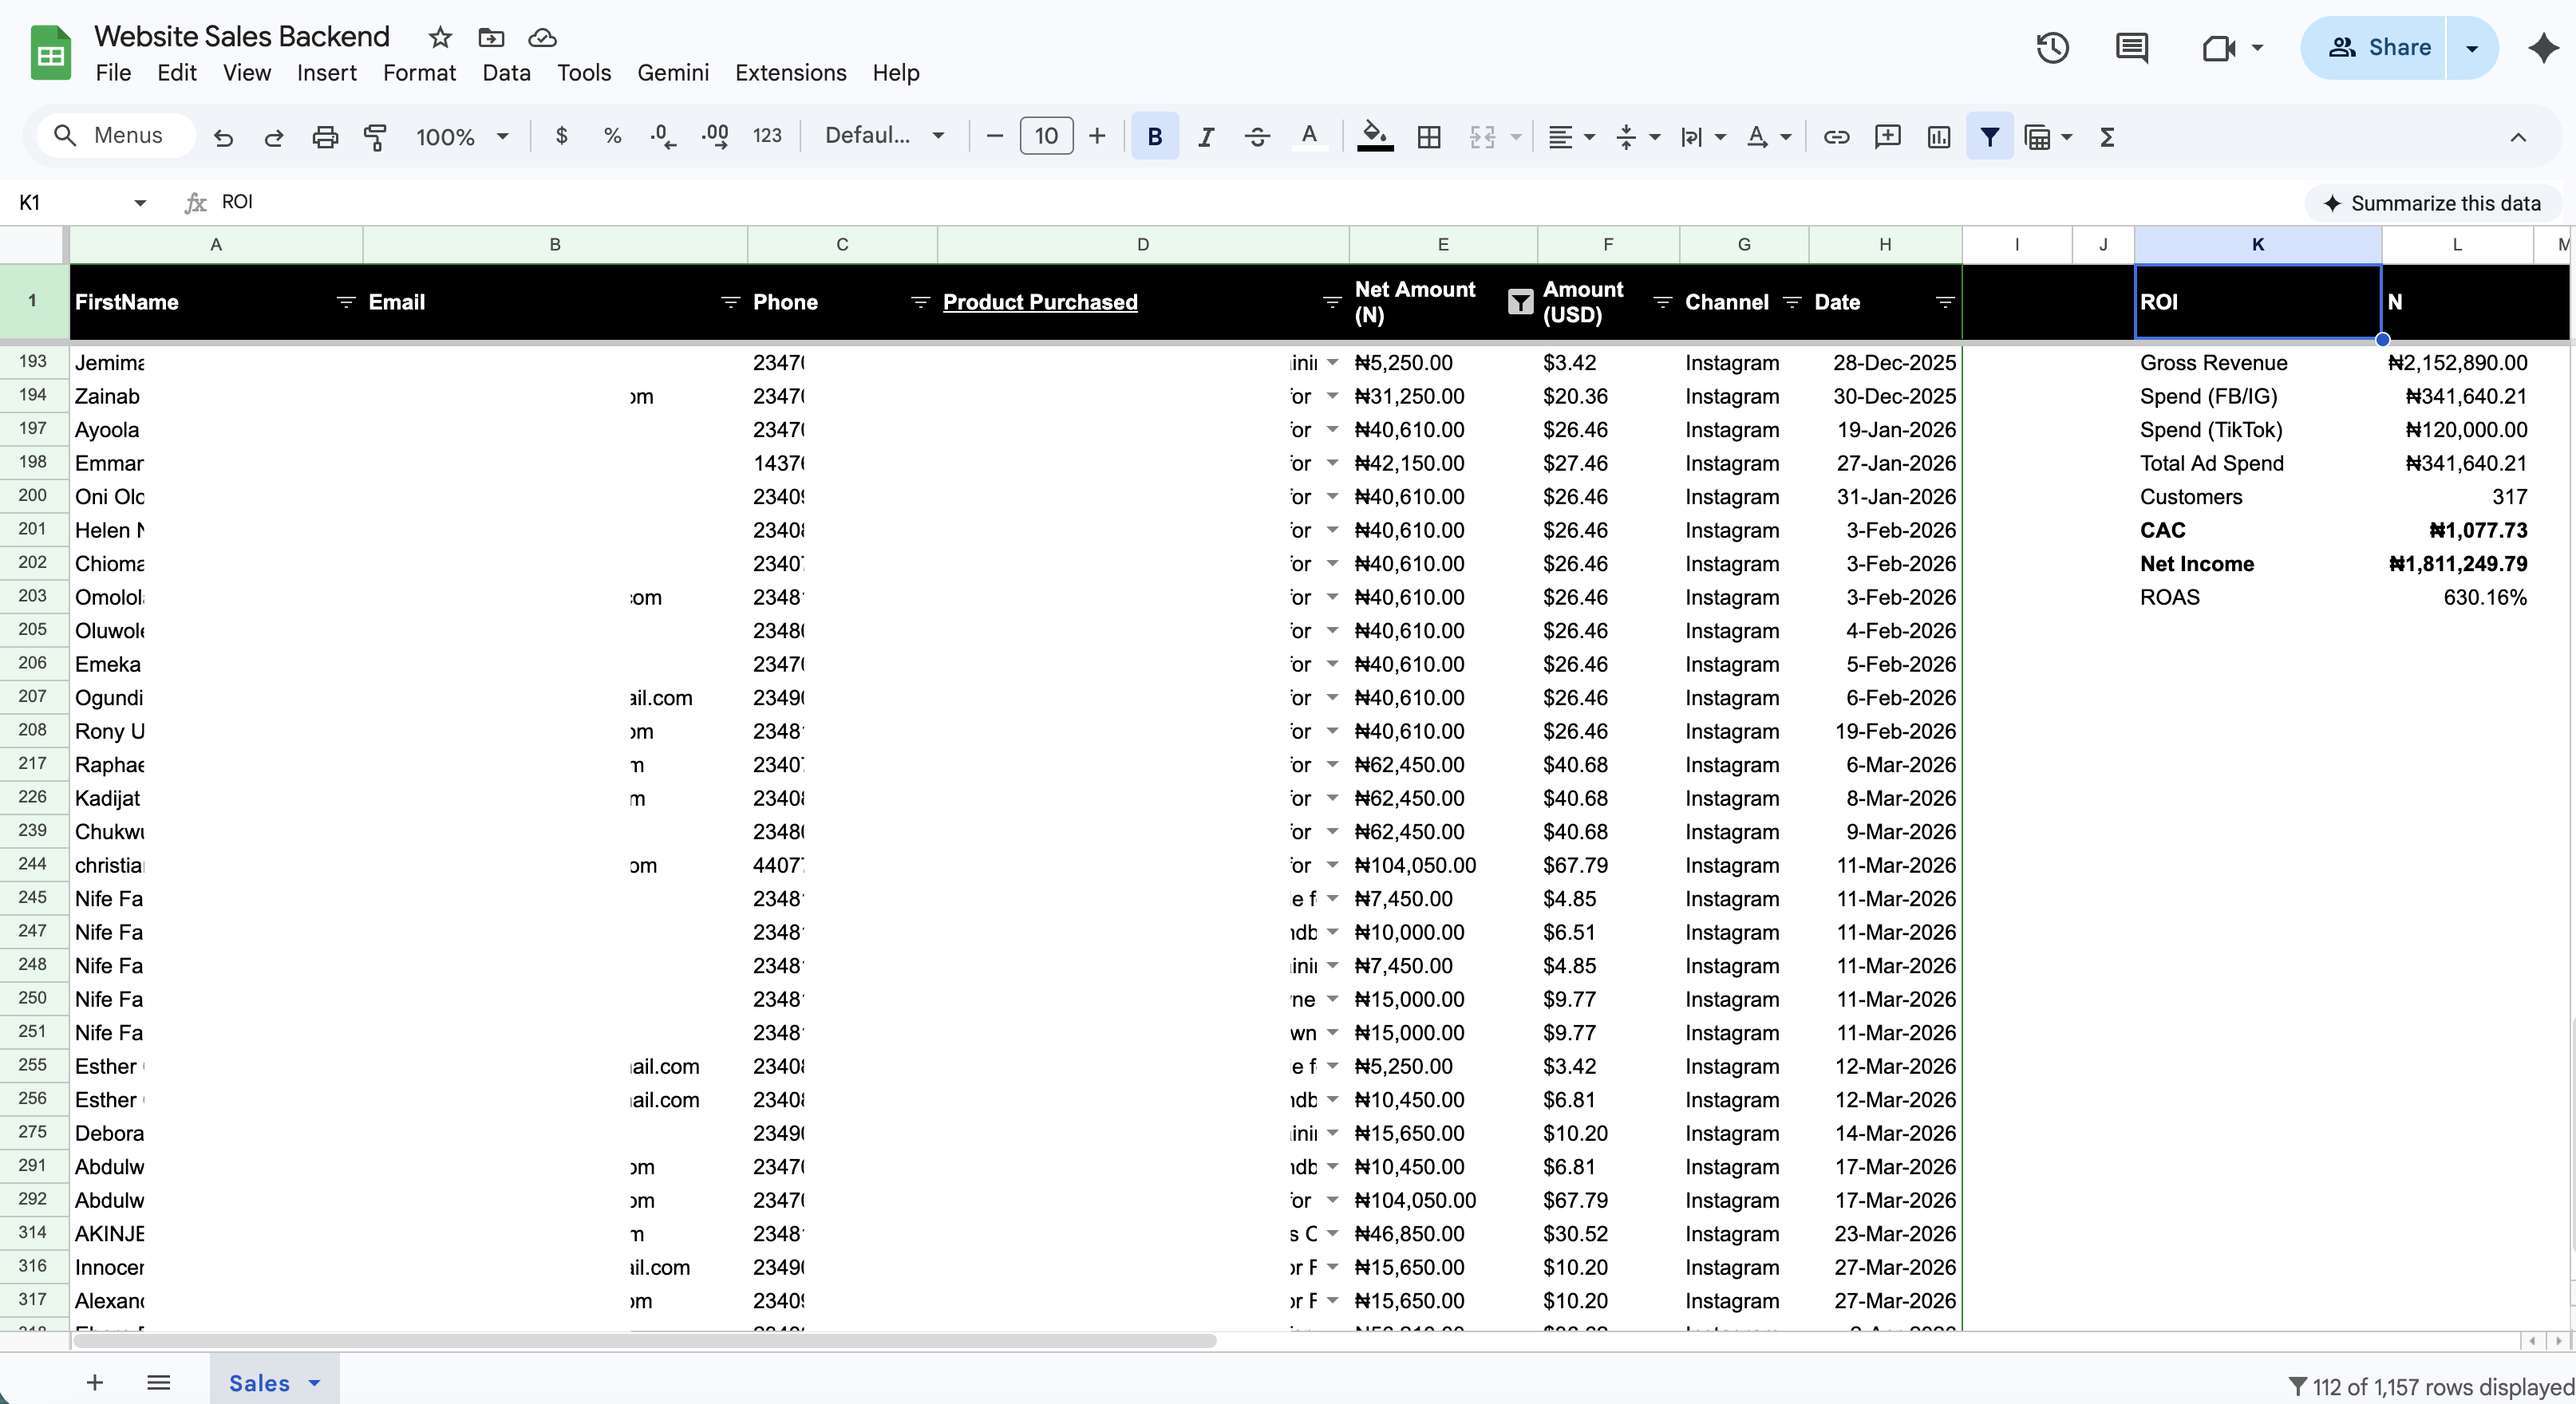
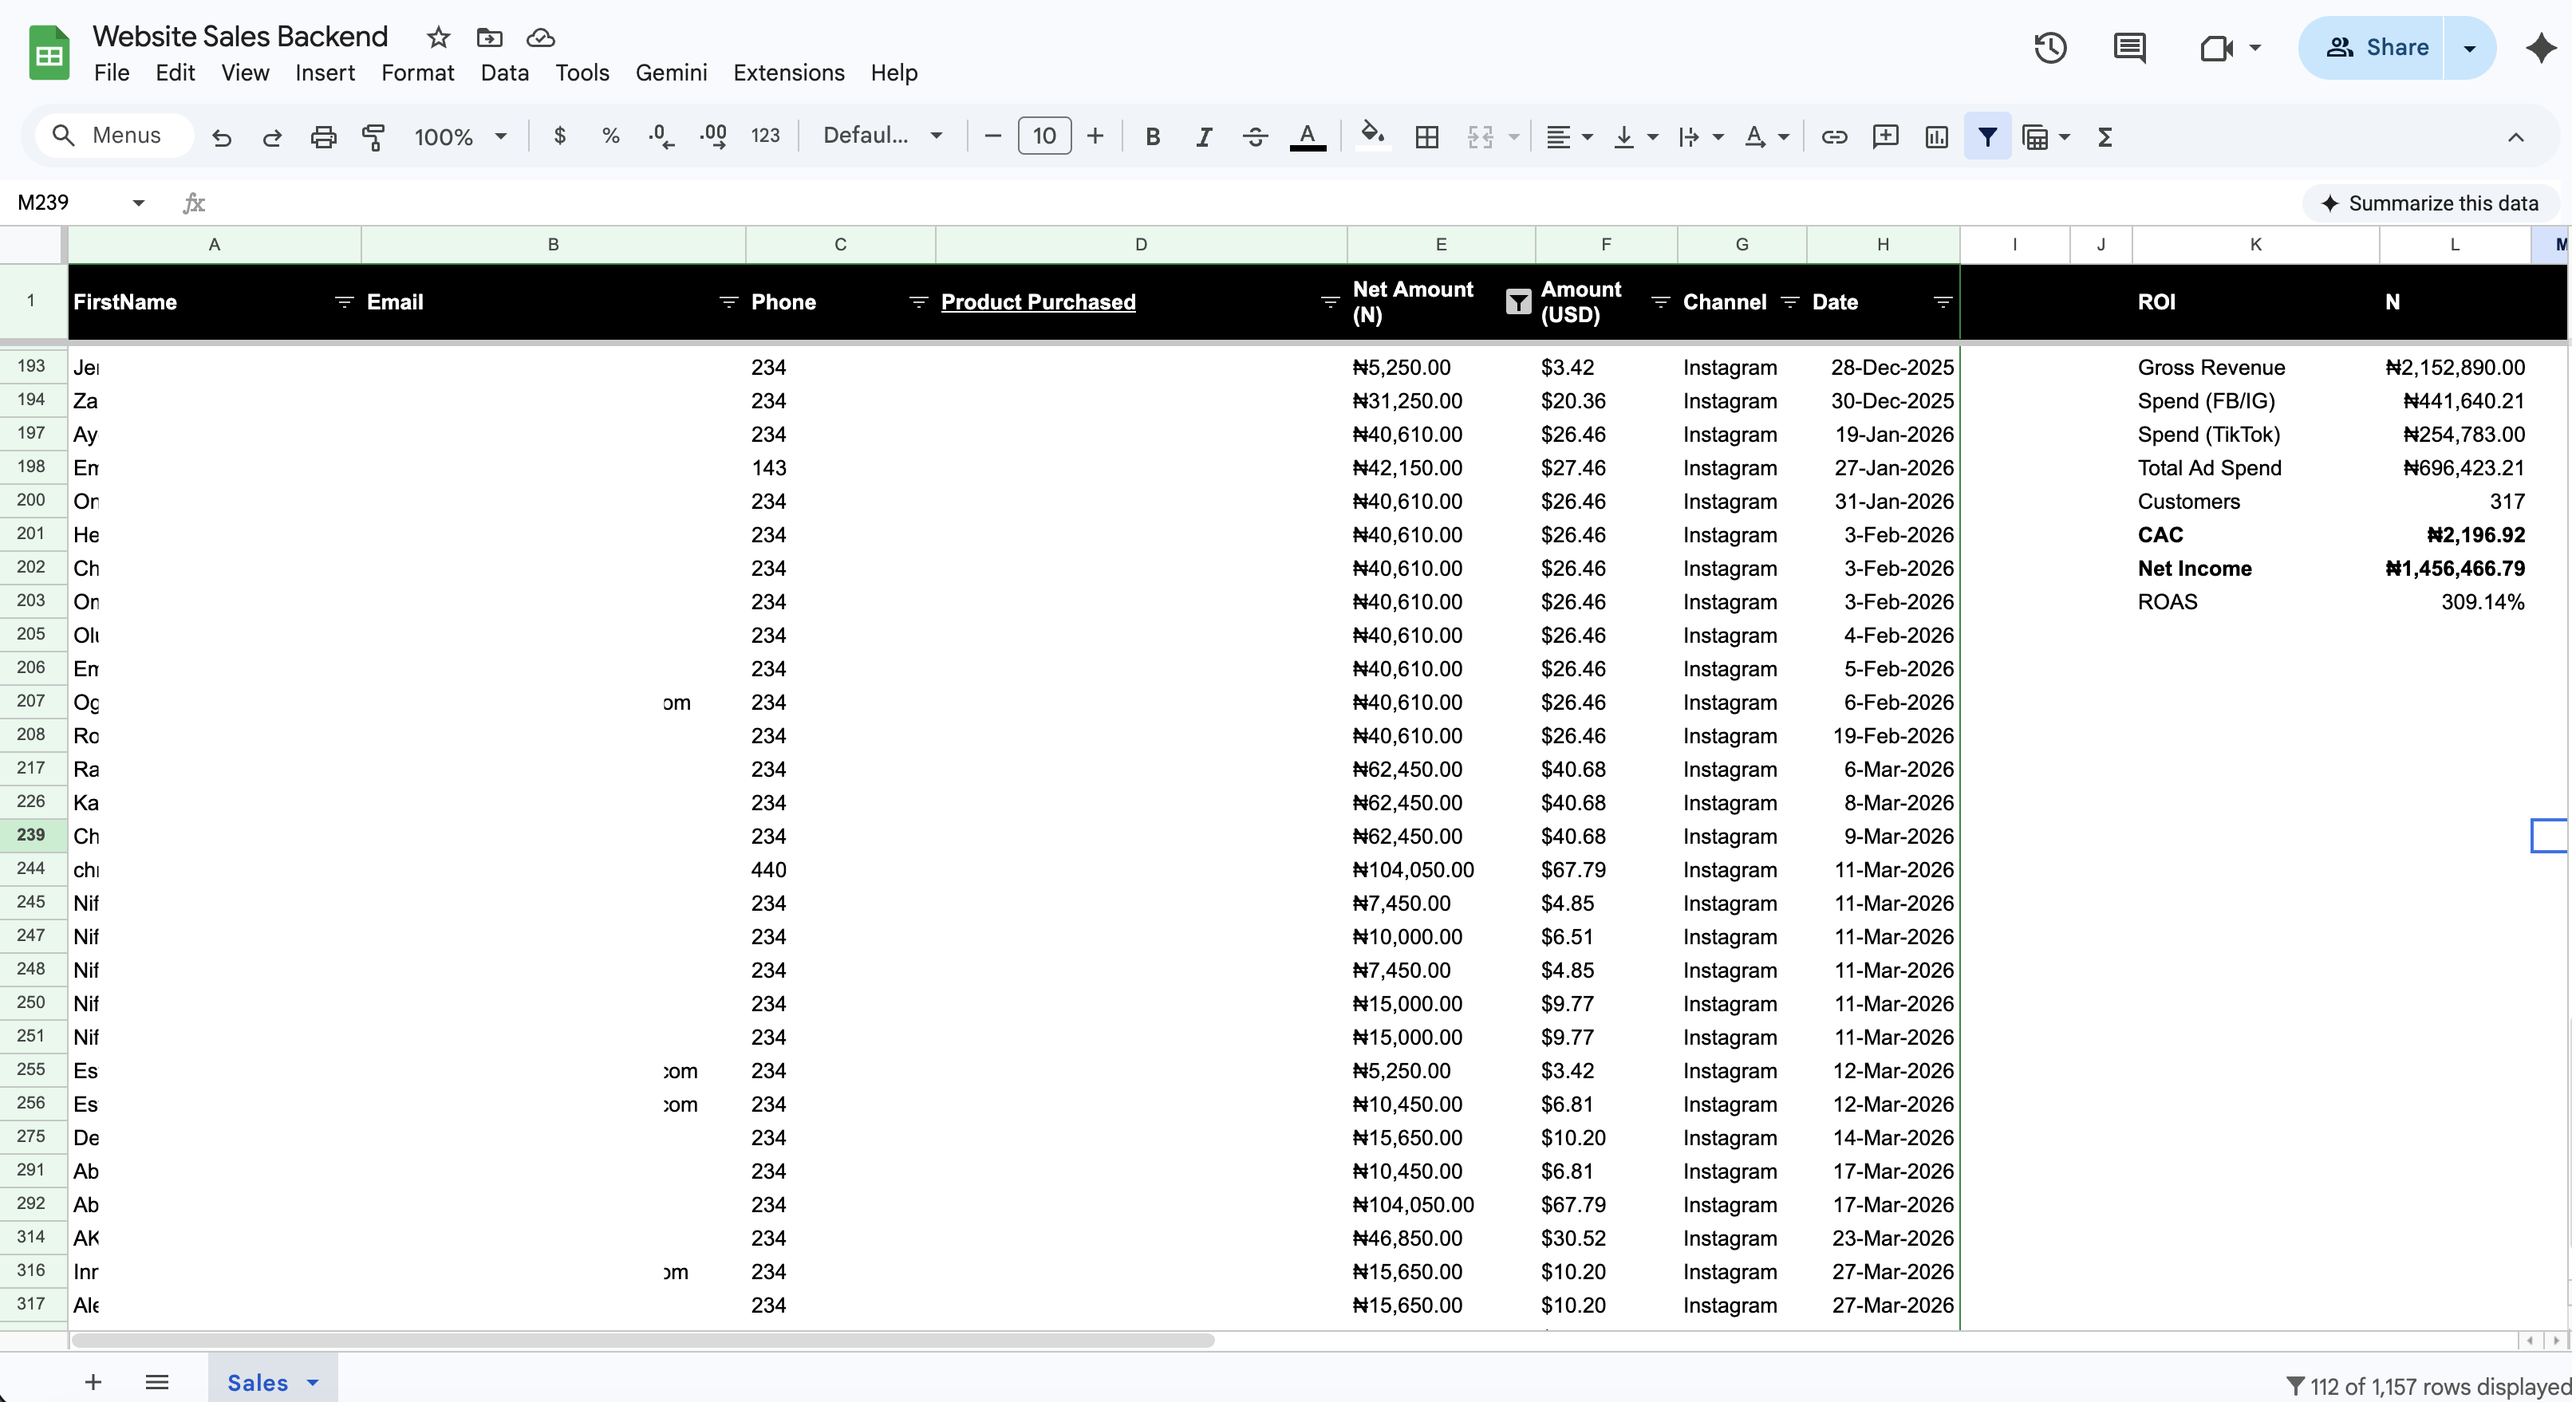
Update Sales Backend image and figures on consulting + bundle pages
New figures: ₦2.1M gross revenue, ₦1.4M net income, 309% ROAS,
317 customers, ₦204K ad spend. Image re-exported with updated data.

diff --git a/academy/sme/bundle/index.html b/academy/sme/bundle/index.html
@@ -1612,10 +1612,10 @@
             </div>
             <div style="max-width:720px; margin:20px auto 0;">
                 <div style="background:var(--background); border-radius:var(--radius-md); overflow:hidden; box-shadow:var(--shadow-card);">
-                    <img src="/assets/credibility/sales-backend.png" alt="Sales backend showing ₦1.8M+ revenue" style="width:100%; height:auto; display:block;">
+                    <img src="/assets/credibility/sales-backend.png" alt="Sales backend showing ₦1.4M+ net income, 309% ROAS" style="width:100%; height:auto; display:block;">
                     <div style="padding:14px 16px;">
-                        <div style="font-weight:750; font-size:1.1rem; color:var(--primary-dark);">&#8358;1.8M+ in product sales. 630% ROAS.</div>
-                        <div style="font-size:0.85rem; color:var(--text-muted);">Real sales backend from real marketing campaigns. Gross revenue &#8358;2.1M. Net income &#8358;1.8M. Built using the same system inside this bundle.</div>
+                        <div style="font-weight:750; font-size:1.1rem; color:var(--primary-dark);">&#8358;2.1M+ in revenue. 309% ROAS. 317 customers.</div>
+                        <div style="font-size:0.85rem; color:var(--text-muted);">Real sales backend from real marketing campaigns. &#8358;204K ad spend. &#8358;2.1M gross revenue. &#8358;1.4M net income. 317 customers. Built using the same system inside this bundle.</div>
                     </div>
                 </div>
             </div>

diff --git a/academy/sme/consulting/index.html b/academy/sme/consulting/index.html
@@ -1665,10 +1665,10 @@
             </div>
             <div style="max-width:720px; margin:20px auto 0;">
                 <div style="background:var(--background); border-radius:var(--radius-md); overflow:hidden; box-shadow:var(--shadow-card);">
-                    <img src="/assets/credibility/sales-backend.png" alt="Sales backend showing ₦1.8M+ revenue" style="width:100%; height:auto; display:block;">
+                    <img src="/assets/credibility/sales-backend.png" alt="Sales backend showing ₦1.4M+ net income, 309% ROAS" style="width:100%; height:auto; display:block;">
                     <div style="padding:14px 16px;">
-                        <div style="font-weight:750; font-size:1.1rem; color:var(--primary-dark);">&#8358;1.8M+ in product sales. 630% ROAS.</div>
-                        <div style="font-size:0.85rem; color:var(--text-muted);">Real sales backend from real marketing campaigns. Gross revenue &#8358;2.1M. Net income &#8358;1.8M. The same system we build for every client.</div>
+                        <div style="font-weight:750; font-size:1.1rem; color:var(--primary-dark);">&#8358;2.1M+ in revenue. 309% ROAS. 317 customers.</div>
+                        <div style="font-size:0.85rem; color:var(--text-muted);">Real sales backend from real marketing campaigns. &#8358;204K ad spend. &#8358;2.1M gross revenue. &#8358;1.4M net income. 317 customers. The same system we build for every client.</div>
                     </div>
                 </div>
             </div>
